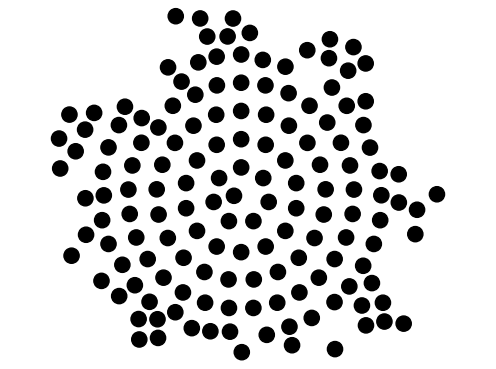
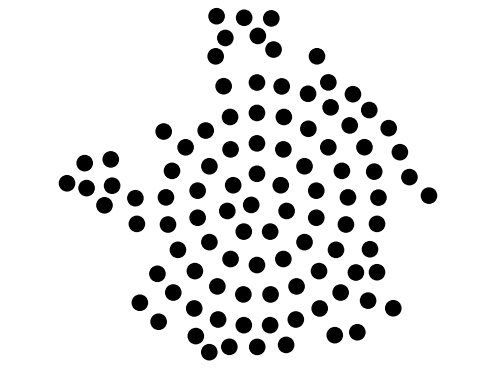
Test Metriques

Changed region(s): [[0.0907, 0.0, 0.9073, 0.9837]]

diff --git a/Module_Python/topologyEvaluation/metricsTSCPSI.py b/Module_Python/topologyEvaluation/metricsTSCPSI.py
@@ -13,7 +13,7 @@ from scipy.spatial import Voronoi, voronoi_plot_2d
 import math
 
 print(cv2.__version__)
-fp = "C:\\Users\\PC MILO fixe\\Desktop\\pytho projet AND\\endstate.json"
+fp = "/home/mohamed/PycharmProjects/Projet_Kilobots/Module_Python/produced/endstate.json"
 
 def returnUVList() :
     nodes = []
@@ -475,8 +475,8 @@ def shapeCharacterizingPoints(angleTreshold, show = False) :
     
 
 
-print("shapeIndex : " + str(shapeIndex(show = True)))
+print("shapeIndex : " + str(shapeIndex(show = False)))
 #print("countTuringSpots : " + str(countTuringSpotsWithVoronoi(show = True)))
 #print("shapeCharacterizingPoints : " + str(shapeCharacterizingPoints(160)))
-#print("countTuringSpots : " + str(countTuringSpotsWithGraph()))
-print("multi cluster shapeIndex : " + str(multiClusterShapeIndex(show = True)))
+print("countTuringSpots : " + str(countTuringSpotsWithGraph()))
+print("multi cluster shapeIndex : " + str(multiClusterShapeIndex(show = False)))

diff --git a/Module_Python/produced/morphogenesis.c b/Module_Python/produced/morphogenesis.c
@@ -30,19 +30,19 @@ REGISTER_USERDATA(USERDATA)
 #define R2 120                  // For probabilistic purposes
 
 //Model_Parameter
-#define A_VAL 0.17920055
-#define B_VAL -0.46843283
-#define C_VAL -2.27443280
-#define D_VAL 1.39552754
-#define E_VAL 0.38621620
-#define F_VAL 0.85286320
-#define G_VAL 1.38645239
-#define D_u 0.59898260
-#define D_v 10.56358080
-#define LINEAR_R 160.00000000
-#define SYNTH_U_MAX 0.23000000
-#define SYNTH_V_MAX 0.50000000
-#define DT 0.00005000
+#define A_VAL 0.08
+#define B_VAL -0.08
+#define C_VAL 0.03
+#define D_VAL 0.03
+#define E_VAL 0.1
+#define F_VAL 0.12
+#define G_VAL 0.06
+#define D_u 0.5
+#define D_v 10
+#define LINEAR_R 160
+#define SYNTH_U_MAX 0.23
+#define SYNTH_V_MAX 0.5
+#define DT 0.00005
 //End_Parameters
 
 /*
